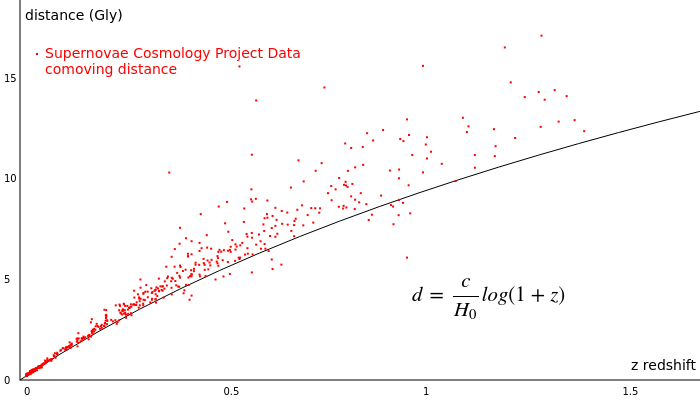
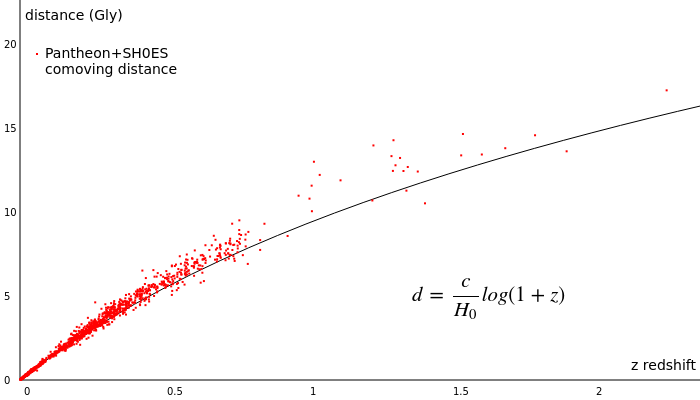
sne updates

diff --git a/other/supernovae.htm b/other/supernovae.htm
@@ -177,6 +177,11 @@ var black = false
     var startFreqInput = document.getElementById("start-freq")
     var extinctionInput = document.getElementById("extinction")
     extinctionInput.onchange = e => {
+        calculateDistances()
+        drawSN()
+    }
+
+    var calculateDistances = function () {
         for (var i=0; i<snData.length; i++) {
                 // distance modulus to parsec luminosity distance
                 var ld = Math.pow(10, 0.2 * (1*snData[i].dm + 5 - extinctionInput.value)) 
@@ -193,7 +198,7 @@ var black = false
                 snData[i].d = d / 1000000
                 snData[i].ld = ld / 1000000
         }
-        drawSN()
+        
     }
     
     
@@ -329,9 +334,9 @@ var black = false
 
         ctxB.font = "14px sans-serif"
 
-        //ctxB.fillStyle = "yellow"
         ctxB.fillRect(offset + 16, offset + 33, 2, 2)
-        ctxB.fillText("Supernovae Cosmology Project Data", offset + 5 + 20, offset + 38)
+        ctxB.fillStyle = "black"
+        ctxB.fillText("Pantheon+SH0ES", offset + 5 + 20, offset + 38)
         ctxB.fillText("comoving distance", offset + 5 + 20, offset + 54)
 /*
         
@@ -404,8 +409,18 @@ var black = false
         
         
     }
-    fetch("https://mikehelland.github.io/hubbles-law/data/supernovae.json").then(res=>res.json()).then(data=> {
-        snData = data
+    fetch("https://mikehelland.github.io/hubbles-law/data/Pantheon+SH0ES_z_mu.csv").then(res => res.text()).then(text => {
+        //console.log(text)
+
+        var lines = text.split("\n")
+        for (var i = 1; i < lines.length; i++) {
+            var line = lines[i].split(",")
+            snData.push({"dm": line[2], "z": line[0]})
+        }
+        calculateDistances()
+    
+    //fetch("https://mikehelland.github.io/hubbles-law/data/supernovae.json").then(res=>res.json()).then(data=> {
+        //snData = data
 
         //fetch("https://mikehelland.github.io/hubbles-law/data/zdata_ned.json").then(res=>res.json()).then(data=> {
         //    zData = data
